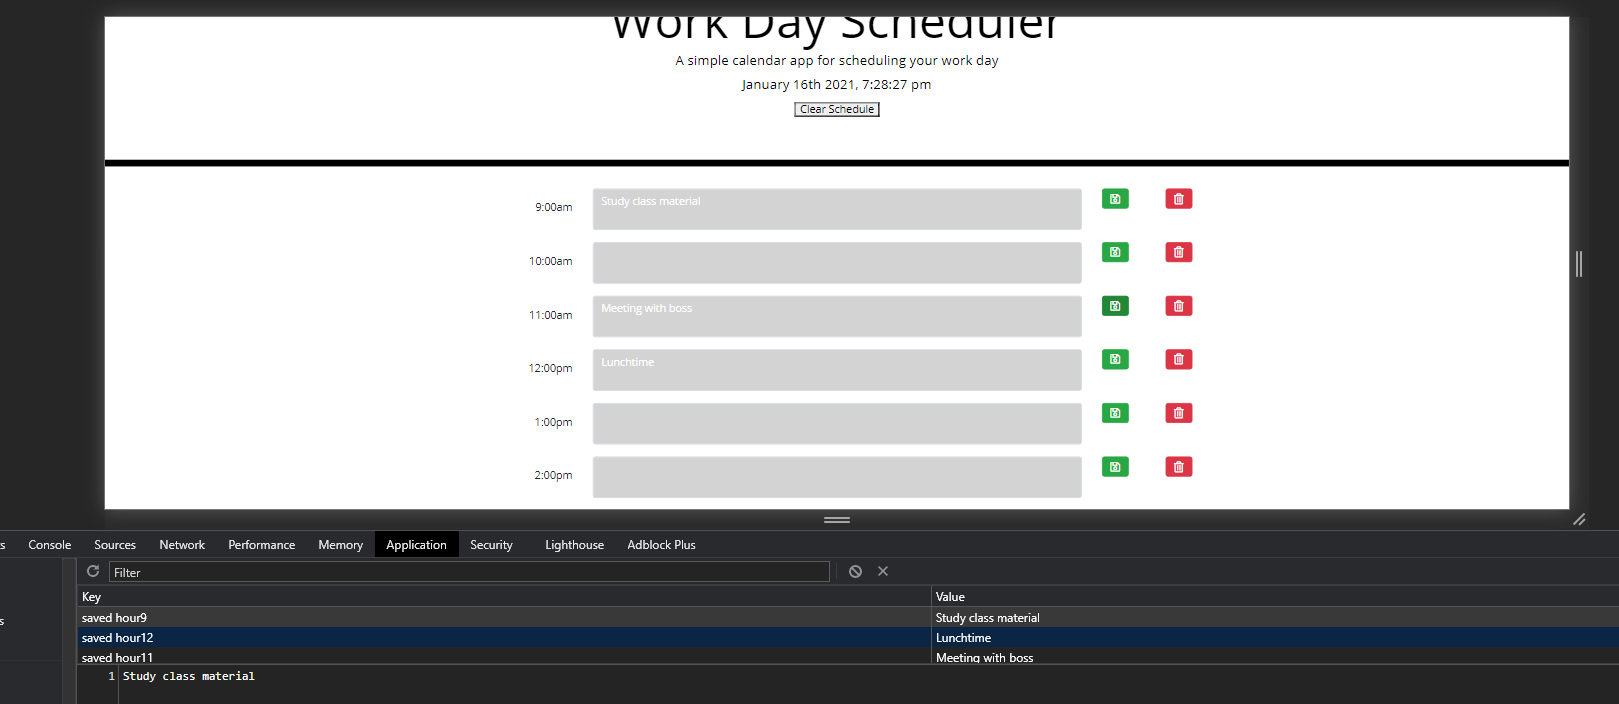
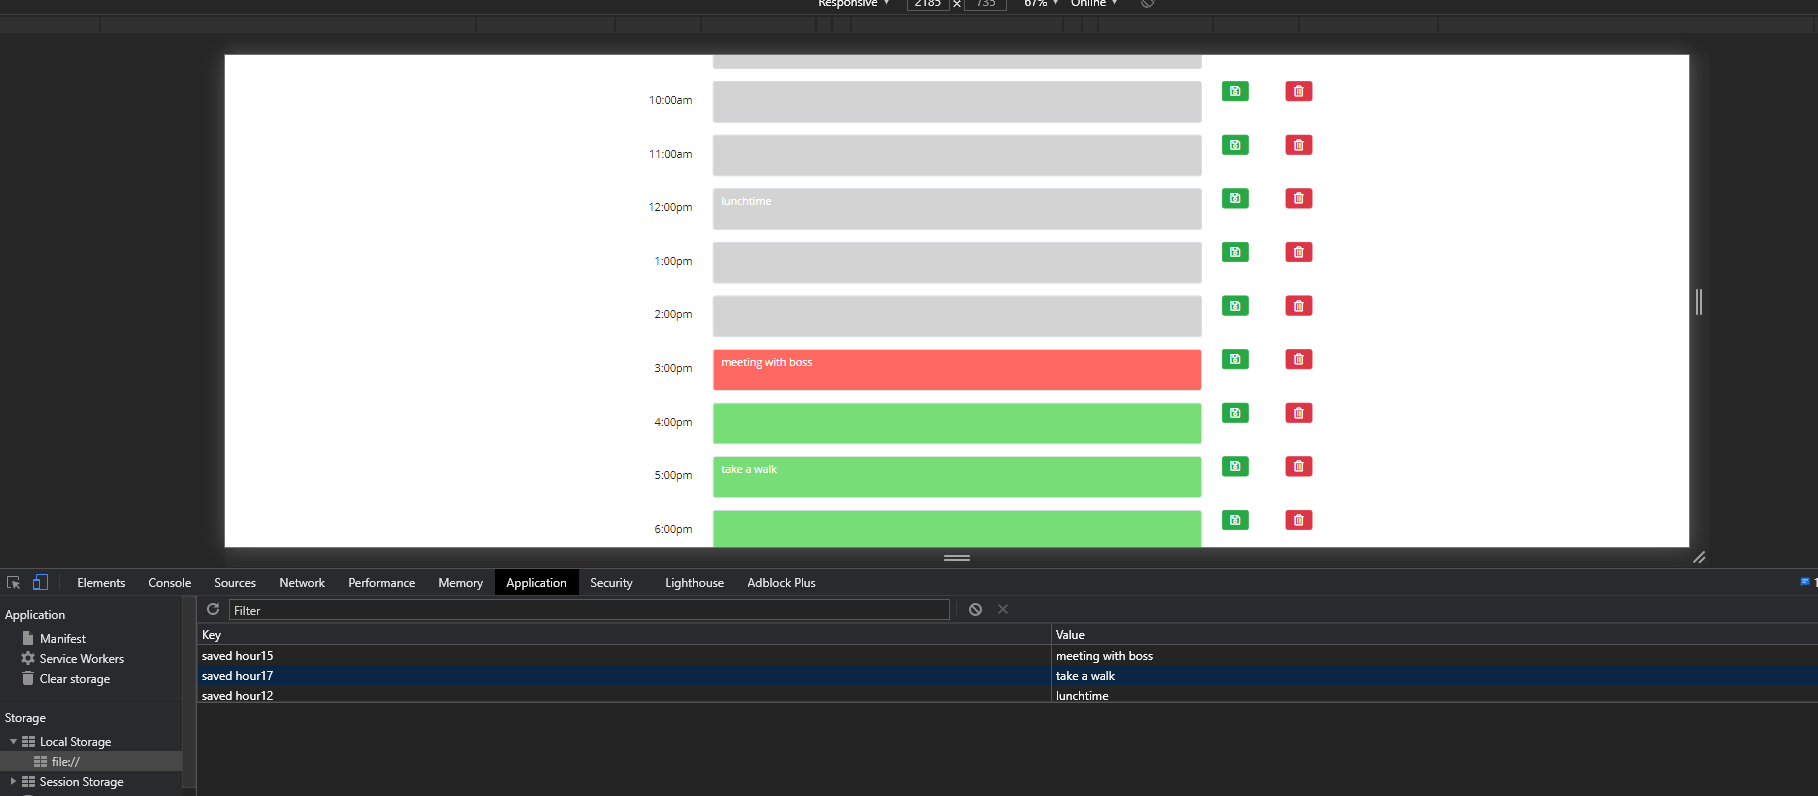
updated images in README

diff --git a/README.md b/README.md
@@ -32,7 +32,7 @@ This project was successfully deployed, Need proof? Click the links below to giv
 
 See some images of the page in action below:
 
-![time past](images/timepast.png)
+![3pm time](images/3pm.png)
 
 ![saving in storage](images/storage.png)
 
